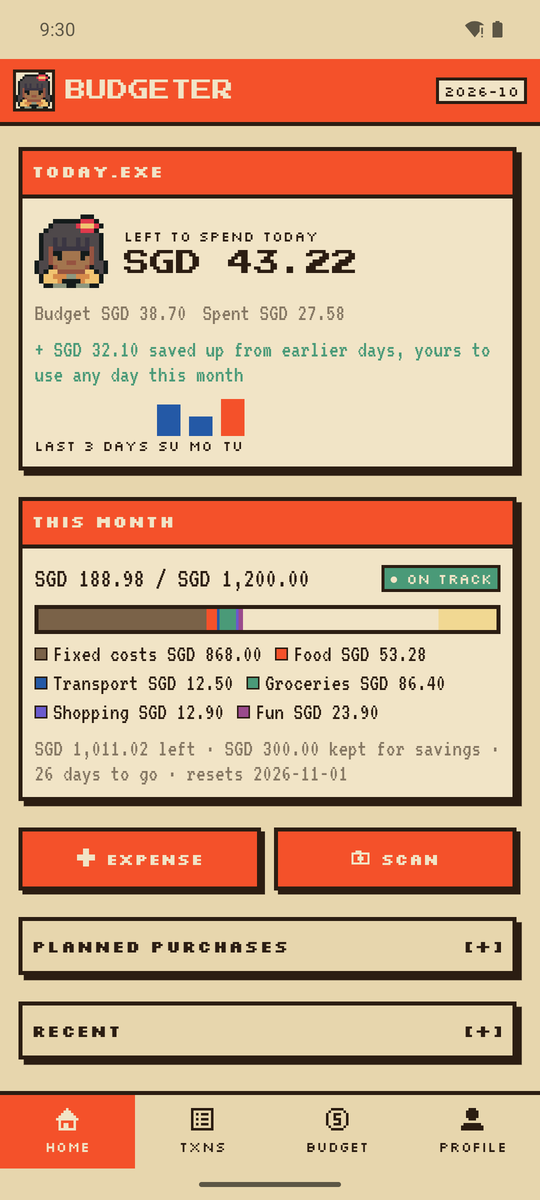
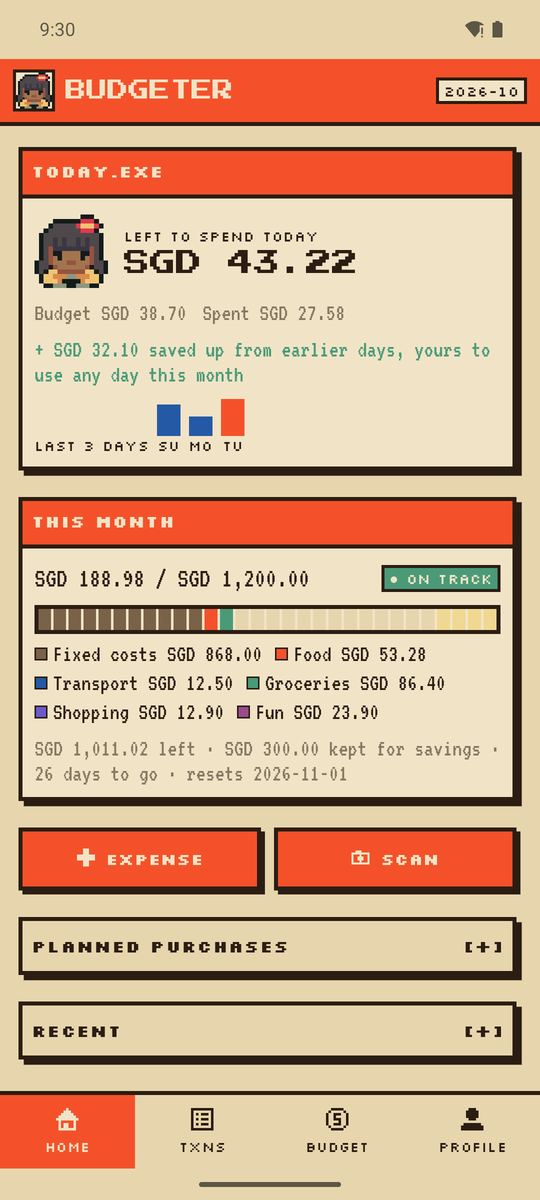
1.4.1: month bars use the same block style as the day bar (app, cover screen, widget); cream launch screen; retaken screenshots

Changed region(s): [[0.0889, 0.4933, 0.9185, 0.5242]]

diff --git a/app/src/main/java/com/nyxulrix/budgeter/widget/WidgetArt.kt b/app/src/main/java/com/nyxulrix/budgeter/widget/WidgetArt.kt
@@ -12,12 +12,9 @@ import com.nyxulrix.budgeter.core.money
 import com.nyxulrix.budgeter.data.AppState
 import com.nyxulrix.budgeter.data.currency
 import com.nyxulrix.budgeter.data.snapshot
-import com.nyxulrix.budgeter.ui.CategoryColors
 import com.nyxulrix.budgeter.ui.Glyphs
 import com.nyxulrix.budgeter.ui.alertArgb
-import com.nyxulrix.budgeter.ui.barTotal
-import com.nyxulrix.budgeter.ui.freeAndTarget
-import com.nyxulrix.budgeter.ui.monthSegments
+import com.nyxulrix.budgeter.ui.monthBlocks
 
 /**
  * Draws widgets as pictures using the app's own pixel fonts, frames and colours, since home-screen widgets can't
@@ -81,17 +78,24 @@ object WidgetArt {
             glyph.forEachIndexed { y, row -> row.forEachIndexed { x, ch -> if (ch == '#') rect(ox + x * cell, oy + y * cell, ox + (x + 1) * cell, oy + (y + 1) * cell, CREAM_LIGHT) } }
         }
 
-        /** Segmented block bar with a 2dp outline. */
-        fun blocks(t: Float, b: Float, frac: Float, color: Int) {
-            rect(l, t, r, b, BROWN)
+        /** Segmented block bar with a 2dp outline: [colors] per block, null = empty. */
+        fun blocks(t: Float, b: Float, colors: List<Int?>, outline: Int = BROWN) {
+            rect(l, t, r, b, outline)
             rect(l + px(2f), t + px(2f), r - px(2f), b - px(2f), CREAM)
-            val n = 20; val gap = px(2f)
+            val n = colors.size; val gap = px(2f)
             val bw = ((r - l) - px(4f) - gap * (n - 1)) / n
-            val filled = (frac * n).let { if (it > 0f && it < 1f) 1 else it.toInt() }
-            for (i in 0 until n) {
+            colors.forEachIndexed { i, c ->
                 val x = l + px(2f) + i * (bw + gap)
-                rect(x, t + px(3f), x + bw, b - px(3f), if (i < filled) color else CREAM_LIGHT)
+                rect(x, t + px(3f), x + bw, b - px(3f), CREAM_LIGHT)
+                if (c != null) rect(x, t + px(3f), x + bw, b - px(3f), c)
             }
+        }
+
+        /** Same bar, filled to [frac] in one colour (20 blocks, like the app's progress bars). */
+        fun blocks(t: Float, b: Float, frac: Float, color: Int) {
+            val n = 20
+            val filled = (frac * n).let { if (it > 0f && it < 1f) 1 else it.toInt() }
+            blocks(t, b, List(n) { if (it < filled) color else null })
         }
     }
 
@@ -139,21 +143,7 @@ object WidgetArt {
             else -> "${money(snap.left, cur)} left"
         }, a.r, y, a.body, 15f, if (snap.over) RED else MUTED, right = true)
         y += a.px(4f)
-        val barB = y + barH
-        a.rect(a.l, y, a.r, barB, alert ?: BROWN)
-        a.rect(a.l + a.px(2f), y + a.px(2f), a.r - a.px(2f), barB - a.px(2f), CREAM_LIGHT)
-        val total = snap.barTotal().toFloat()
-        var x = a.l + a.px(2f)
-        val span = (a.r - a.l) - a.px(4f)
-        for (s in st.monthSegments(snap)) {
-            if (s.amount <= 0) continue
-            val wSeg = span * (s.amount / total)
-            a.rect(x, y + a.px(2f), (x + wSeg).coerceAtMost(a.r - a.px(2f)), barB - a.px(2f), alert ?: s.argb)
-            x += wSeg
-        }
-        val (free, targetLeft) = snap.freeAndTarget()
-        x += span * (free / total)
-        if (targetLeft > 0) a.rect(x, y + a.px(2f), (x + span * (targetLeft / total)).coerceAtMost(a.r - a.px(2f)), barB - a.px(2f), CategoryColors.TARGET_ZONE)
+        a.blocks(y, y + barH, st.monthBlocks(snap), alert ?: BROWN)
         return a.bmp
     }
 }

diff --git a/app/src/main/java/com/nyxulrix/budgeter/ui/MonthBar.kt b/app/src/main/java/com/nyxulrix/budgeter/ui/MonthBar.kt
@@ -83,6 +83,25 @@ fun Snapshot.barTotal(): Long = (fixed + maxOf(spendable + target, spent)).coerc
 /** What's left of the bar after spending: free money, then the untouched part of the savings target. */
 fun Snapshot.freeAndTarget(): Pair<Long, Long> = (spendable - spent).coerceAtLeast(0) to (target - dipped)
 
+const val MONTH_BLOCKS = 30
+
+/**
+ * The month bar as blocks, like every other progress bar: each block takes the colour of whatever covers its
+ * middle (fixed costs, a category, the faint savings-target zone) or null when it's still free money.
+ * Filled blocks turn to the alert colour when dipping into savings or over budget.
+ */
+fun AppState.monthBlocks(snap: Snapshot, n: Int = MONTH_BLOCKS): List<Int?> {
+    val total = snap.barTotal().toDouble()
+    val alert = snap.alertArgb()
+    val bands = monthSegments(snap).filter { it.amount > 0 }.map { it.amount to (alert ?: it.argb) } +
+        snap.freeAndTarget().let { (free, target) -> listOf(free to null, target to CategoryColors.TARGET_ZONE) }
+    return (0 until n).map { i ->
+        val mid = (i + 0.5) / n * total
+        var acc = 0.0
+        bands.firstOrNull { (amt, _) -> acc += amt; mid < acc }?.second
+    }
+}
+
 /** Red when over budget, yellow when dipping into savings, else null. */
 fun Snapshot.alertArgb(): Int? = if (over) CategoryColors.OVER else if (dipping) CategoryColors.DIP else null
 
@@ -112,14 +131,13 @@ fun MonthBar(st: AppState, snap: Snapshot, legend: Boolean = true) {
                     contentDescription = (if (snap.over) "Over budget. " else if (snap.dipping) "Dipping into savings. " else "") +
                         segs.joinToString { "${it.label} ${money(it.amount, cur)}" } + ". ${money(snap.left.coerceAtLeast(0), cur)} left"
                 },
+            horizontalArrangement = Arrangement.spacedBy(2.dp),
         ) {
-            segs.filter { it.amount > 0 }.forEach { s ->
-                Box(Modifier.weight(s.amount.toFloat() / total).height(16.dp).alpha(if (alert != null) pulse else 1f)
-                    .background(alert ?: Color(s.argb)))
+            st.monthBlocks(snap).forEach { argb ->
+                val filled = argb != null && argb != CategoryColors.TARGET_ZONE
+                Box(Modifier.weight(1f).height(16.dp).alpha(if (filled && alert != null) pulse else 1f)
+                    .background(argb?.let { Color(it) } ?: Px.cream))
             }
-            val (free, targetLeft) = snap.freeAndTarget()
-            if (free > 0) Box(Modifier.weight(free.toFloat() / total).height(16.dp))
-            if (targetLeft > 0) Box(Modifier.weight(targetLeft.toFloat() / total).height(16.dp).background(Color(CategoryColors.TARGET_ZONE)))
         }
         if (legend) FlowRow(horizontalArrangement = Arrangement.spacedBy(10.dp), verticalArrangement = Arrangement.spacedBy(4.dp)) {
             segs.filter { it.amount > 0 }.forEach { s ->
